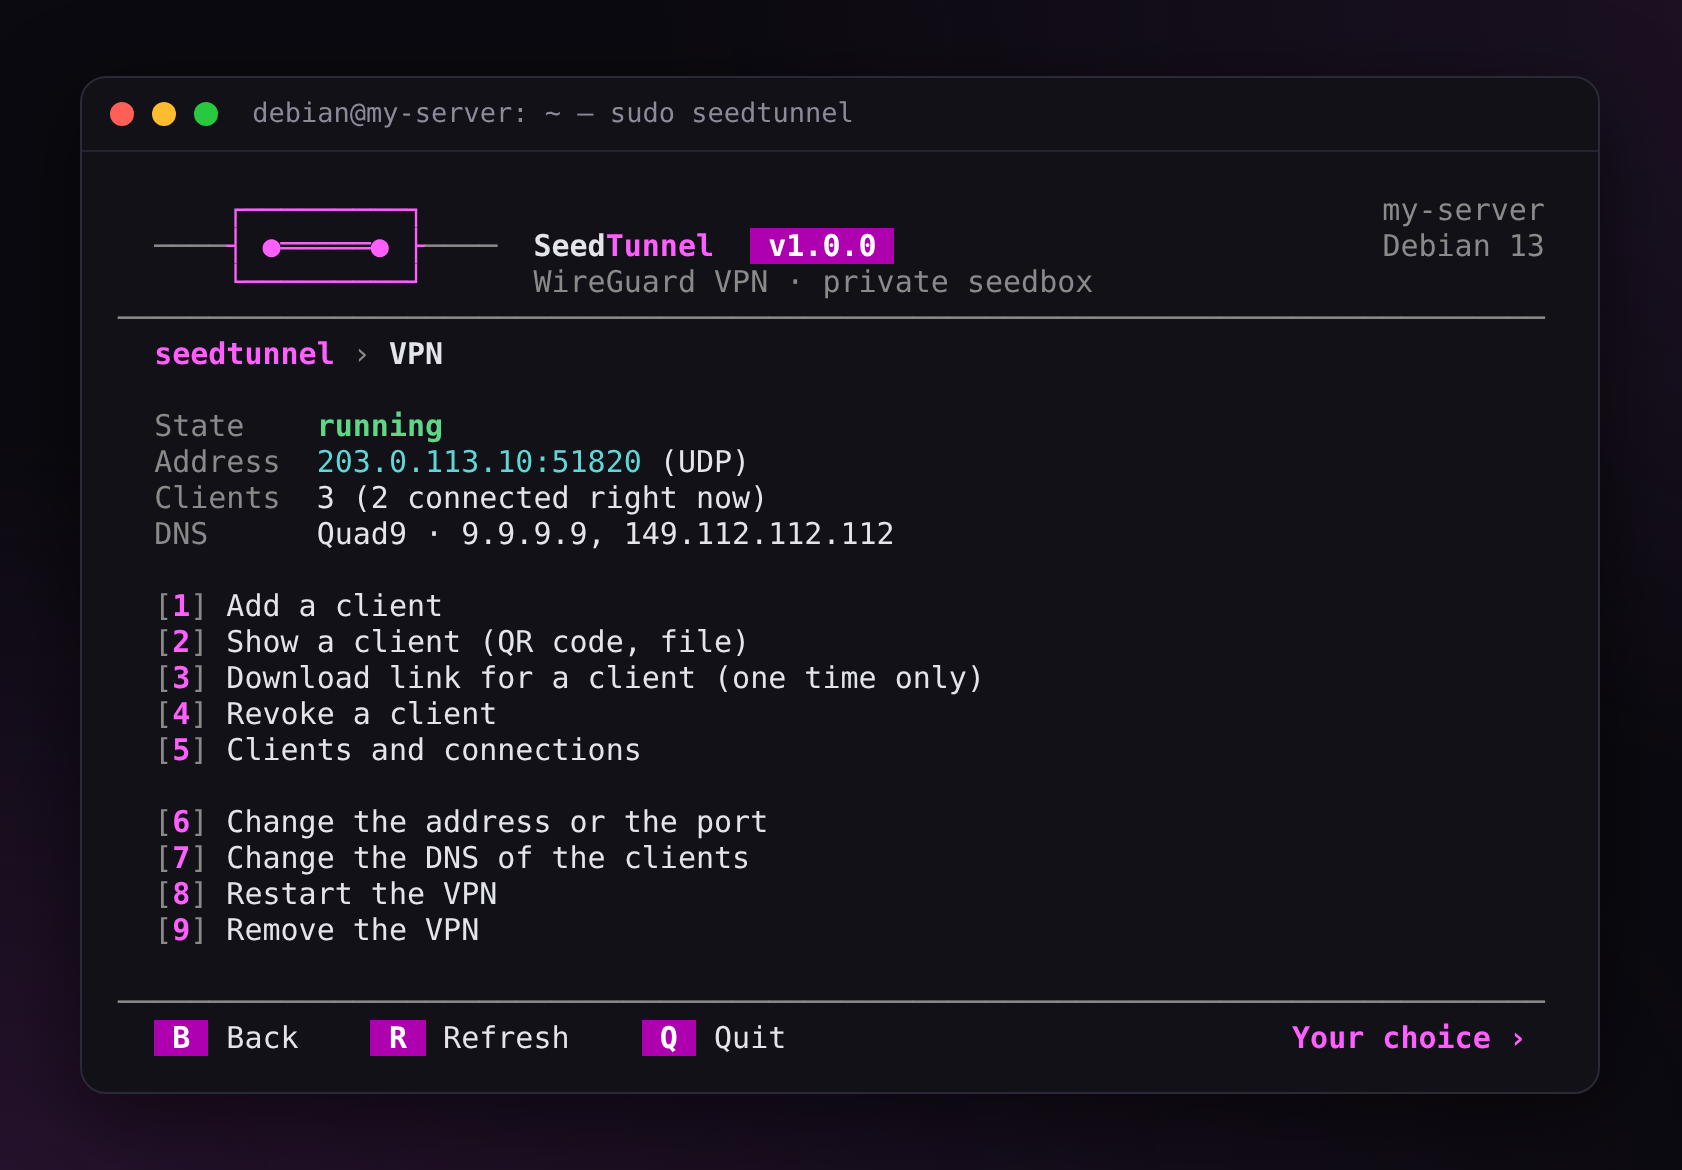
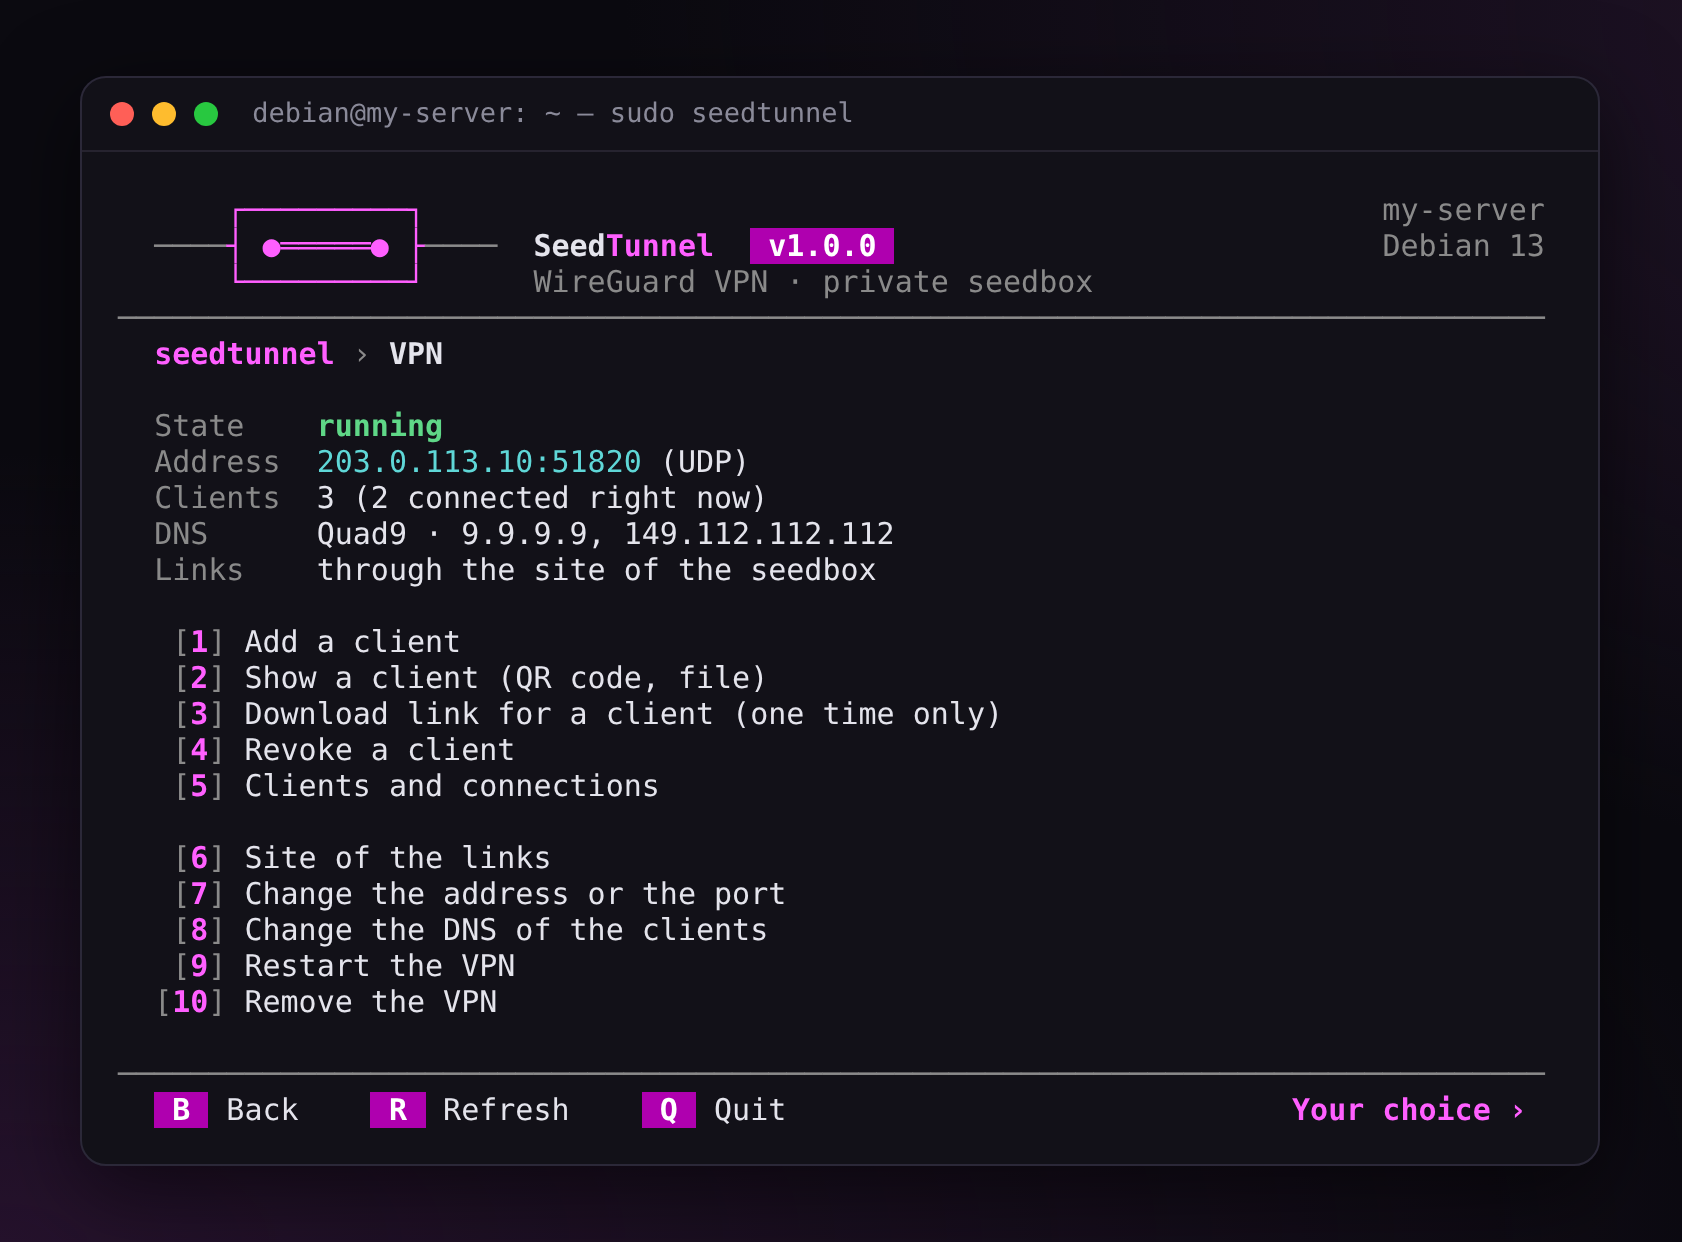
1.0.0
- APP_VERSION 1.0.0
- CHANGELOG: the section of 1.0.0 (license, what is new, what changed,
  what is fixed)
- README and guides: the screens of the VPN menu with « Links » and
  [6] Site of the links

diff --git a/CHANGELOG.md b/CHANGELOG.md
@@ -3,6 +3,33 @@
 Format based on [Keep a Changelog](https://keepachangelog.com/en/1.1.0/),
 versions follow [Semantic Versioning](https://semver.org/): MAJOR.MINOR.PATCH.
 
+## [1.0.0] - 2026-11-13
+
+The version for everyday use: new screens in the terminal, download pages in the colors of SeedTunnel, one-time links without a seedbox, and the fixes found while testing it on real servers (Debian 12 and 13, Ubuntu 24.04 and 26.04). From 0.9.0: `sudo seedtunnel update`.
+
+### License
+- GNU General Public License, version 3 or later (GPL-3.0-or-later), instead of MIT. Version 0.9.0 stays under MIT.
+
+### Added
+- **One-time links with the VPN alone**: without a seedbox, the first link offers a small HTTPS site that serves the links and nothing else (nginx, ports 80 and 443; a Let's Encrypt certificate for a domain name pointing to the server, self-signed otherwise, with the fingerprint to check given with each link). VPN menu › Site of the links, or `seedtunnel vpn links [on|off]`. Removed with the VPN; a seedbox installed afterwards takes its place.
+- **Backup / restore › My backups**: every backup, numbered, with the room they take and the free space of the disk; any of them downloaded through a one-time link, those of the server deleted after a red frame (« no » by default). By command: `backup list`, `backup share NUMBER`, `backup delete NUMBER`.
+- **WinSCP profile** for SFTP, next to the FileZilla one: a file to import (Tools → Import Sites → INI file) with the fingerprint of the server, and the place of the key made by seedtunnel if there is one. By command: `seedtunnel seedbox sftp-config winscp`.
+- **Firewall › Show the rules**, laid out: the ports open on the server, what is always allowed, the ports forwarded to the VPN clients; the raw nftables rules on demand.
+
+### Changed
+- **Screens of the terminal** in the style of the menus: the card of a client in a frame, then its QR code alone, then how to install the tunnel, the port for torrents and the kill switch; summaries in a green frame before an action (« before → after »); the DNS chosen like an entry of a menu; the backups to restore in a table; long texts wrapped to the width of the screen, an address or a command to copy never cut.
+- **SFTP connection** explained: what an SSH key is, then « I have no key » (one is made for you) or « I already have a key » (what to paste; a private key pasted by mistake is named as such).
+- **Download pages** dark, in the colors of SeedTunnel, with the next steps numbered. A link already used, expired or unknown shows a page that says so, in French and English, instead of the 404 of nginx.
+- **Restore**: when the SFTP account of the server has another name than in the backup, it takes back the name of the backup (said before the question; a restore cut short gives the old name back), instead of stopping.
+- Home screen: a recent backup without the weekly backup shows « manual », in yellow.
+- After a restore from the menu, the menus speak the language of the backup.
+- The fingerprint of a self-signed certificate is shown on two lines in 80 columns.
+
+### Fixed
+- `seedtunnel restore` without a file, in a terminal, stopped after the list of the backups (« Question asked outside interactive mode »).
+- Restore: a text pasted while the passphrase was asked counted as many wrong passphrases. Now 3 tries, then the restore stops with nothing changed.
+- Anonymized report: the SFTP account connected with WinSCP (Debian 13) was named as an administrator; on Ubuntu 26.04, an account named by needrestart was not hidden. The addresses of the DNS services of the menu stay readable (an address typed by hand is still hidden).
+
 ## [0.9.0] - 2026-11-12
 
 First published version. SeedTunnel is meant for everyday use from version 1.0.0 on; until then, a 0.x version may still change how things look or work.
